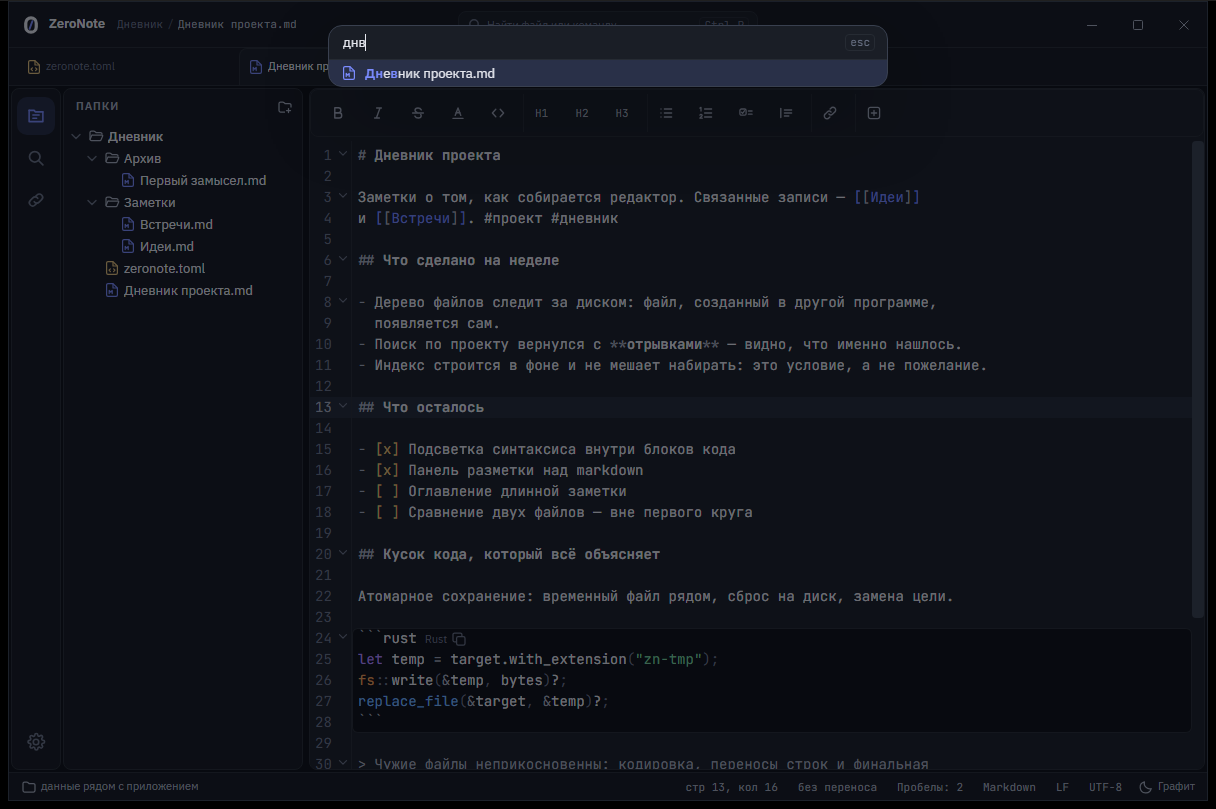
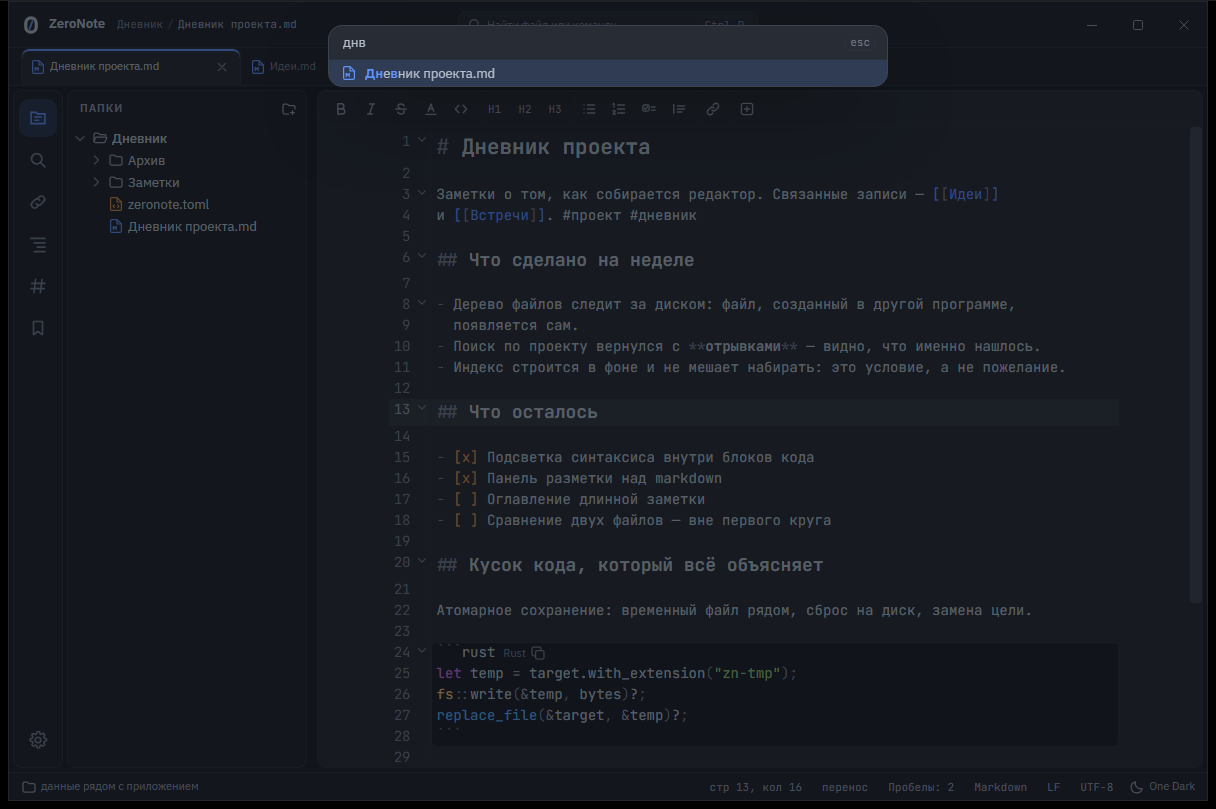
Задача 60: приёмка этапа 8, версия 0.8.0
Восемь целей выполнены с запасом не меньше двадцатикратного. Тёплый старт
409 мс против 406 у 0.7.0 — шум при цели 800. Ввод под индексацией 3,8 мс
против 3,9: не оптимизация, а место работы — всё новое легло на путь
markdown, а стенд ввода печатает в файл без разметки. Отдельная строка
стенда для markdown показывает 0,8–0,9 мс, то есть украшения строк и разбор
==выделения== на видимых строках ничего не стоят.

Первый запуск снова подтвердил свою бесполезность как показателя: 585 и 478
мс в двух прогонах одной сборки, разброс вдвое больше разницы с прошлой
версией.

Инвариант 4 проверен crash-test.ps1 на живом процессе. Инвариант 1 отдельно:
этап оформления не добавил ни одного нового способа записать чужой файл —
единственная новая запись на диск это ключ readable_width в settings.toml
через toml_edit, тот же путь, что у всех настроек с этапа 3.

Установщик 4,89 → 4,90 МиБ, плюс 5,2 КиБ; новых зависимостей нет.
391 тест Rust, 338 фронтенда, 480 файлов без ошибок.

Снимки README пересняты на выпускной сборке: прежние были на «Бумаге»,
которой больше нет.

Приёмка нашла своё: отрывок в поиске при узкой панели показывает только то,
что стоит перед совпадением, — само слово уезжает за правый край. Поиск
исправен, обрезка неудачна; записано в план этапа 9.

Выпуск не опубликован: сборка без подписи, публикация — решение владельца.

diff --git a/src/version.ts b/src/version.ts
@@ -1,4 +1,4 @@
 // Единственное место, где живёт номер версии на стороне фронтенда.
 // Держится в согласии с package.json и src-tauri/Cargo.toml вручную;
 // сверка вынесена в тест tests/version.test.ts.
-export const version = '0.7.0';
+export const version = '0.8.0';

diff --git a/DESIGN.md b/DESIGN.md
@@ -317,6 +317,7 @@ powershell -File bench\perf.ps1
 | 2026-09-04 | **Выпуск 0.5.0**: + меню, свёртка, скобки, отступы, невидимые, закладки | 442 мс | 403 мс | 380 мс |
 | 2026-09-04 | **Выпуск 0.6.0**: + редактор клавиш, панель разметки, обновление из GitHub | 415 мс | 398 мс | — |
 | 2026-09-05 | **Выпуск 0.7.0**: + подсказка `[[`, оглавление, теги, автосохранение | 500 мс | 406 мс | 398 мс |
+| 2026-09-05 | **Выпуск 0.8.0**: + шесть тем, значки, плотность, оформление markdown, колонка, закладки | 585 мс | 409 мс | 384 мс |
 
 Из них время от входа в `main()`: задача 1 — 593 / 330 / 311 мс,
 задача 2 — 342 / 344 / 330 мс. Разница с полным временем — загрузчик Windows
@@ -2532,6 +2533,160 @@ NSIS, а не наш код. Первый же тестировщик на Windo
 
 ---
 
+## 25. Приёмка этапа 8
+
+Метка `v0.8.0`. Прогон на выпускной сборке 2026-09-05.
+
+Этап назывался «Оформление», и его приёмка отличается от всех прежних тем,
+что **почти всё сделанное проверяется глазами, а не тестом**. Отсюда порядок:
+тестом закрыто то, что можно посчитать — контраст и различимость цветов,
+полнота значков, правила колонки и списка закладок; остальное снято с живого
+окна и разобрано на снимках.
+
+### Инварианты
+
+| № | Чем закрыт | Состояние |
+|---|---|---|
+| 1 | 17 эталонных файлов, обход «открыть → сохранить» байт в байт. **Этап не добавил ни одного нового способа записать чужой файл**: вся работа была на экране | **да** |
+| 2 | Запись в `.obsidian` отвергается до всякой работы с диском; этап её не касался | **да** |
+| 3 | `ReplaceFileW`; путь записи не менялся | **да** |
+| 4 | `crash-test.ps1` на живом процессе: правка восстановлена, буфер без файла восстановлен, файл на диске не тронут, в снимке две вкладки | **да** |
+| 5 | Кодировка — часть модели буфера; этап её не касался | **да** |
+| 6 | Ввод под настоящей индексацией — 3,8 мс против 3,3 в покое | **да** |
+
+**Про инвариант 1 отдельно, потому что этап оформления легко принять
+за безопасный.** Единственная запись на диск, которую он добавил, — ключ
+`readable_width` в `settings.toml` через `toml_edit` (Р-089), то есть тот же
+путь, что у всех настроек с этапа 3. Ни один чужой файл ни в одной задаче
+не открывался на запись.
+
+**Про инвариант 6 отдельно, потому что этап клал работу прямо на путь ввода.**
+Задача 57 добавила украшения строк цитат и разбор `==выделения==`, задача 58 —
+перенос и колонку. Всё это живёт на пути markdown, и именно там числа
+не выросли: правка в файле markdown 1 МиБ — 0,9 мс, 10 МиБ — 0,8 мс. Украшения
+строятся только по видимым строкам, и это видно по независимости числа
+от размера файла.
+
+### Показатели
+
+| Показатель | Цель | 0.7.0 | 0.8.0 |
+|---|---|---|---|
+| Первый запуск в прогоне | ≤ 2000 мс | 500 мс | **585 мс** |
+| Тёплый старт | ≤ 800 мс | 406 мс | **409 мс** |
+| Открытие 5 МиБ | ≤ 500 мс | 11,0 мс | **11,8 мс** |
+| Раскрытие папки на 10 000 записей | ≤ 300 мс | 18,8 мс | **18,0 мс** |
+| Полная индексация 20 000 файлов | ≤ 30 с | 1,2 с | **1,2 с** |
+| Поиск по содержимому | ≤ 300 мс | 11,4 мс | **11,5 мс** |
+| Ввод при открытом файле 10 МиБ | без задержки | 3,5 мс | **3,4 мс** |
+| Ввод во время индексации | без задержки | 3,9 мс | **3,8 мс** |
+
+Все восемь целей выполнены с запасом не меньше двадцатикратного.
+
+**Тёплый старт: 406 → 409 мс**, три миллисекунды. Этап добавил шестую панель
+и таблицу значков, но обе грузятся вместе с остальным интерфейсом, а тема
+собирается в ядре, и число цветов в ней не изменилось. Три миллисекунды при
+цели в восемьсот — шум, и записаны они не как результат, а как отсутствие
+регрессии.
+
+**Первый запуск снова подтвердил свою бесполезность как показателя.** Два
+прогона одной сборки дали 585 и 478 мс — разброс в 107 мс, вдвое больше
+разницы с прошлой версией. Это одна проба на холодном файловом кэше, и вывод
+из неё по-прежнему один: смотреть на тёплый старт.
+
+**Ввод не подорожал впервые за три этапа** — 3,9 → 3,8 мс под индексацией.
+Причина не в оптимизации, а в том, куда этап клал работу: всё новое на пути
+markdown, а стенд ввода печатает в файл на десять мегабайт без разметки.
+Отдельная строка стенда для markdown это и показывает: там 0,8–0,9 мс.
+
+### Установщик
+
+4,89 → **4,90 МиБ** (5 130 399 → 5 135 751 байт), плюс 5,2 КиБ. Новых
+зависимостей нет: два пакета `@lezer/highlight` и `@lezer/markdown` появились
+в `package.json` задачей 57, но в дереве стояли и раньше — первый мы
+импортировали напрямую с этапа 2, не объявив.
+
+Пять килобайт на шесть тем, 55 значков, оформление markdown и панель
+закладок — это шестьдесят строк палитр и рисунки, сжатые вместе с остальным
+пакетом.
+
+### Тесты
+
+391 в Rust (340 модульных + 51 сквозной), 338 во фронтенде. За этап
+добавилось 2 и 32.
+
+Перекос ожидаемый: этап оформления, и почти все новые проверки — во фронтенде.
+Три из них написаны не «на функцию», а на способ ошибиться:
+
+* **различимость цветов подсветки** — шесть голубых оттенков, каждый из
+  которых читается на фоне, обязаны провалить проверку;
+* **полнота таблицы значков** — команда без значка и значок без команды;
+* **противоположные действия** — девять пар, у которых рисунки обязаны
+  отличаться.
+
+### Снимки README пересняты
+
+Четыре снимка сделаны заново на выпускной сборке и на том же показательном
+хранилище в `%TEMP%\zeronote-demo`, что и в прошлый раз (Р-131): тёмная тема,
+палитра, поиск по проекту, светлая тема. Прежние были сняты на «Бумаге»,
+которой больше нет.
+
+### Что нашла приёмка
+
+**Отрывок в поиске при узкой панели показывает только то, что стоит перед
+совпадением.** Панель по умолчанию 240 пикселей, отрывок начинается с начала
+окна вокруг совпадения, и само совпадение уезжает за правый край — на экране
+остаётся ведущий контекст без выделенного слова. Поиск при этом исправен:
+на панели в 420 пикселей видно и слово, и подсветку. Это не дефект поиска,
+а неудачная обрезка, и она стоит задачи: отрывок должен начинаться так, чтобы
+совпадение было видно с первого взгляда. Записано в план этапа 9.
+
+### Что этап изменил в проекте
+
+Семь задач, пятнадцать решений (Р-143…Р-157), 52 файла, +2816 строк
+и −365. Проект стал 307 файлами: 17 768 строк во фронтенде, 18 375 в ядре.
+
+Из пятнадцати решений четыре приняты владельцем (Р-144 «Контраст» остаётся,
+Р-147 вкладка «Темы», Р-155 живое превью, выбор поведения в задаче 54),
+а одно — Р-155 — **отменяет прежнее по существу**: живое превью markdown было
+вне области с этапа 3 (Р-046, Р-074) и вошло в неё после того, как владелец
+посмотрел на результат задачи 57. Это второй такой случай после Р-142, и он
+другого рода: там решение оказалось неверным, здесь — изменилось то, чего
+от редактора хотят.
+
+**Первый этап, план которого целиком вырос из обратной связи**, и это видно
+по тому, что три задачи из семи вышли не такими, как записаны в плане:
+значков нарисовано 55 вместо «нескольких групп», у markdown появился разбор
+`==выделения==`, которого в плане не было вовсе, а задача 57 закончилась
+отменой собственной границы.
+
+### Что осталось незакрытым
+
+**Живое превью markdown** (Р-155) — первым пунктом этапа 9. Работа не меньше
+PDF: прятать знаки разметки, водить курсор сквозь спрятанное, показывать
+виджеты вместо текста. Вместе с PDF и картинками этап получается большим,
+и делить его придётся при планировании.
+
+**Вкладка «Темы»** (Р-147) — тоже этап 9. Тема, которой у нас нет, не должна
+быть задачей разработки.
+
+**Непрерывная сборка на GitHub Actions.** Третий этап подряд записана и не
+начата. Это по-прежнему инфраструктура, а не продукт, и по-прежнему то, что
+защищает одного разработчика лучше всего остального.
+
+### Выпуск
+
+**Не опубликован.** Сборка собрана и замерена, но подписи у неё нет:
+`TAURI_SIGNING_PRIVATE_KEY` при сборке не задавался, и `.sig` рядом
+с установщиком не появился. Публикация выпуска и проверка обновления через сам
+механизм — отдельное действие и решение владельца (Р-118): наружу приложение
+ходит только по нажатию, а выкладывать версию, которую поставят себе
+тестировщики, без спроса нельзя.
+
+Порядок выпуска не менялся — `DESIGN.md`, раздел 20, «Как выпускать версию».
+Пять шагов, забывается третий: `latest.json` пишется руками.
+
+---
+
 ## 24. План этапа 8
 
 Оформление. Семь этапов делали то, что редактор умеет; восьмой занимается
@@ -2548,7 +2703,7 @@ NSIS, а не наш код. Первый же тестировщик на Windo
 | 57 | Оформление markdown в исходнике | Заголовки, жирный, курсив, цитаты и списки — как в исходном режиме Obsidian. | сделана |
 | 58 | Ширина текста и центрирование | Читаемая длина строки для markdown, текст по центру окна. | сделана |
 | 59 | Панель закладок | Метки у номеров строк уже есть с задачи 37; новая — панель со списком. | сделана |
-| 60 | Приёмка этапа 8 | Замеры, установщик, чеклист инвариантов, **пересъёмка снимков для README**, версия 0.8.0. | следующая |
+| 60 | Приёмка этапа 8 | Замеры, установщик, чеклист инвариантов, **пересъёмка снимков для README**, версия 0.8.0. | сделана |
 
 ### Р-143 · 2026-09-05 · Тест читаемости не смотрел на подсветку
 
@@ -2974,6 +3129,11 @@ WebView2 был бы бесплатен по размеру, но потребо
 
 Картинки идут тем же путём и той же вкладкой: байты приходят из ядра,
 политика окна не трогается.
+
+**Отрывок в поиске обрезается не с той стороны.** Нашла приёмка этапа 8:
+при панели по умолчанию совпадение уезжает за правый край, и на экране
+остаётся только то, что стоит перед ним. Задача маленькая и заметная —
+отрывок должен начинаться так, чтобы совпадение было видно сразу.
 
 **Живое превью markdown — первым пунктом** (Р-155, решение владельца после
 задачи 57). Работа не меньше PDF: прятать знаки разметки, водить курсор

diff --git a/CLAUDE.md b/CLAUDE.md
@@ -59,9 +59,28 @@ markdown-файлов в проекте, а не «режима Obsidian». Ре
 раздел 13. **Инвариант 6 закрыт полностью**: 3,5 мс на ввод под индексацией
 против 3,1 мс в покое.
 
-**Этап 8 идёт** — «Оформление»: первый этап, план которого целиком вырос
-из обратной связи. План — `DESIGN.md`, раздел 24. Следующая задача — 60,
-приёмка этапа и версия 0.8.0.
+**Этап 8 закрыт, версия 0.8.0.** «Оформление»: шесть тем, значки в меню
+и палитре, плотность и границы, оформление markdown в исходнике, читаемая
+ширина, панель закладок. План — `DESIGN.md`, раздел 24; приёмка — раздел 25;
+решения — Р-143…Р-157.
+
+**Выпуск не опубликован**: сборка собрана и замерена, но без подписи
+(`TAURI_SIGNING_PRIVATE_KEY` не задавался, `.sig` не создан). Публикация
+и проверка обновления через сам механизм — решение владельца.
+
+Показатели: тёплый старт 409 мс (было 406), ввод под индексацией 3,8 мс
+(было 3,9). **Ввод не подорожал впервые за три этапа** — не оптимизация,
+а место работы: всё новое легло на путь markdown, а стенд ввода печатает
+в файл без разметки. Отдельная строка стенда для markdown: 0,8–0,9 мс.
+
+**Первый запуск снова показал себя бесполезным показателем**: 585 и 478 мс
+в двух прогонах одной сборки, разброс вдвое больше разницы с прошлой версией.
+
+**Установщик 4,89 → 4,90 МиБ**, плюс 5,2 КиБ. Новых зависимостей нет.
+
+**Приёмка нашла своё**: отрывок в поиске при узкой панели показывает только
+то, что стоит **перед** совпадением, — само слово уезжает за правый край.
+Поиск исправен, обрезка неудачна. Записано в план этапа 9.
 
 **Задача 59 сделана**: панель закладок — шестая в боковой полосе.
 
